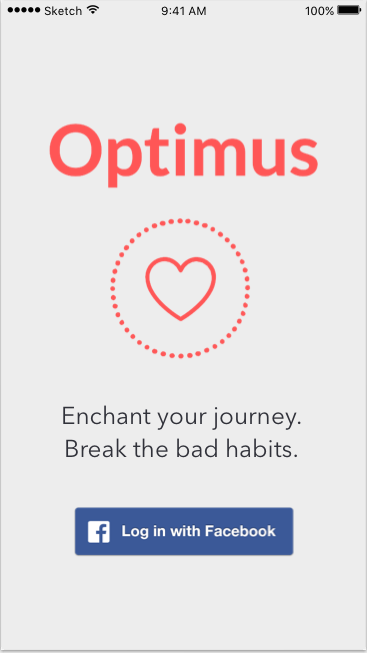
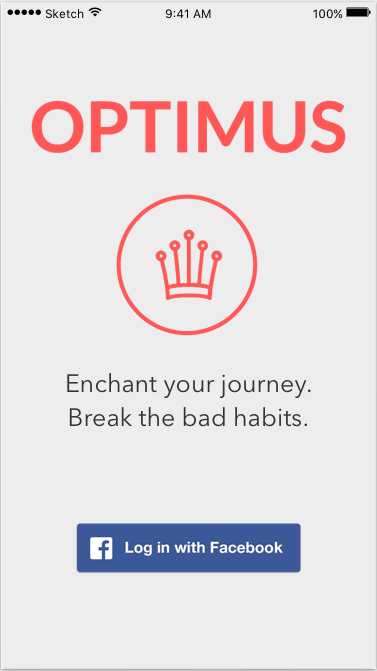
Add app views and some more styling

diff --git a/src/App.vue b/src/App.vue
@@ -2,19 +2,23 @@
   <div>
     <div class="hero-banner">
       <img class="hero-image" src="./assets/logocrown.png">
-      <h1><b>Welcome to the most challenging app, ever.</b></h1>
-      <h2>Enchante Your Journey. Break the bad habits.</h2>
+      <h1 class="hero-text">Welcome to the most challenging app, ever.</h1>
+      <h2 class="hero-text">Enchante Your Journey. Break the bad habits.</h2>
     </div>
     <div class="app-description">
-      <h2>Ready for a challenge?</h2>
-      <h4>Sign up, pick the challenge you want to complete, choose ur friend and name the prize!
-      Sign up, pick the challenge you want to complete, choose ur friend and name the prize!Sign up,
-      pick the challenge you want to complete, choose ur friend and name the prize!</h4>
+      <div class="app-banner">
+        <h2 class="app-text">Ready for a challenge?</h2>
+        <h4 class="app-text">Sign up, pick the challenge you want to complete, choose ur friend and name the prize!
+        Sign up, pick the challenge you want to complete, choose ur friend and name the prize!Sign up,
+        pick the challenge you want to complete, choose ur friend and name the prize!</h4>
+      </div>
     </div>
     <div class="app-images">
       <img class="app-image" src="./assets/signup.png">
       <img class="app-image" src="./assets/logged.png">
-      <img class="app-image" src="./assets/request.png">
+      <img class="app-image" src="./assets/requested.png">
+    </div>
+    <div class="hero-banner">
     </div>
   </div>
 </template>
@@ -34,6 +38,11 @@ body{
   margin-top: 60px;
 }
 
+/* you can assign all of them to have same style*/
+/*h1, h2, h3, h4, h5, h6 {
+  font-weight: lighter;
+}*/
+
 .hero-image {
   /*width: 200px;*/
   height: 300px;
@@ -46,9 +55,18 @@ body{
   text-align: center;
 }
 
-.app-description {
+.hero-text {
+  font-weight: normal;
+}
+
+.app-banner {
   width: 700px;
   margin: auto;
+
+}
+
+.app-description {
+  background-color: #EDEDED;
   padding: 30px;
   text-align: center;
   color: #31323A;
@@ -56,13 +74,17 @@ body{
 
 .app-images {
   text-align: center;
-
 }
+
 .app-image {
   display: inline-block;
-  width: 280px;
-  padding: 30px;
+  width: 220px;
+  padding: 60px;
 
+}
+
+.app-text {
+  font-weight: normal;
 }
 
 </style>
